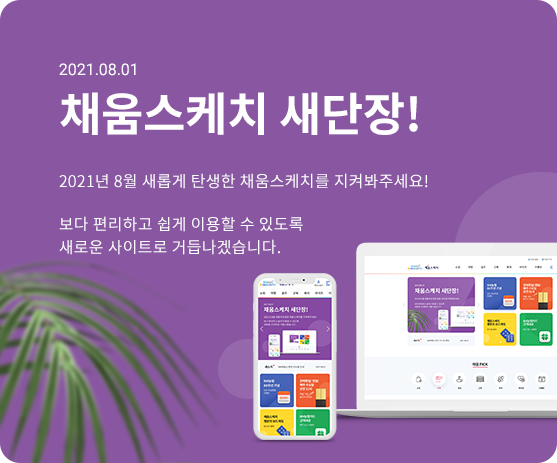
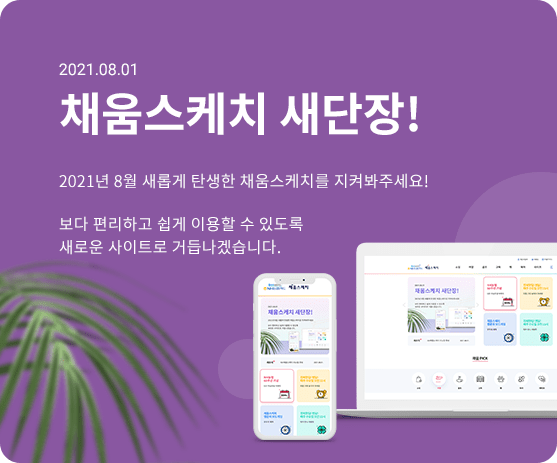
모바일 용 이미지 변경 및 햄버거 메뉴 활성화

Changed region(s): [[0.4578, 0.6048, 0.6104, 0.9676], [0.7325, 0.5745, 1.0, 0.8164], [0.8851, 0.8164, 0.9461, 0.8467]]

diff --git a/css/main-renewal-mb.css b/css/main-renewal-mb.css
@@ -27,7 +27,7 @@
   background-repeat: no-repeat;
   background-size: cover;
   background-position: center;
-  background-image: url(../img/main-sl@3x.png);
+  background-image: url(../img/main-sl-mb@3x.png);
 }
 #contents .content01 .inner .left .owl-carousel .owl-nav {
   padding: 0 20px;
@@ -38,19 +38,20 @@
   display: flex;
   align-items: center;
   justify-content: space-between;
+  opacity: 0.5;
 }
 
 #contents .content01 .inner .left .owl-carousel .owl-nav button.owl-prev {
-  width: 23px;
-  height: 38px;
+  width: 16px;
+  height: 28px;
   background-repeat: no-repeat;
   background-size: 100%;
   background-position: center;
   background-image: url(../img/sl-arrow-1.png);
 }
 #contents .content01 .inner .left .owl-carousel .owl-nav button.owl-next {
-  width: 23px;
-  height: 38px;
+  width: 16px;
+  height: 28px;
   background-repeat: no-repeat;
   background-size: 100%;
   background-position: center;
@@ -61,7 +62,7 @@
 }
 #contents .content01 .inner .left .notice {
   margin: 10px;
-  padding: 0 25px;
+  padding: 0 15px;
   display: flex;
   align-items: center;
   justify-content: space-between;
@@ -69,12 +70,26 @@
   background-color: #f4f8fd;
 }
 #contents .content01 .inner .left .notice h1 {
-  font-size: 15px;
+  font-size: 13px;
   font-weight: 600;
   line-height: 2.23;
   letter-spacing: -1.2px;
   text-align: left;
   color: #1e1e1e;
+  position: relative;
+}
+#contents .content01 .inner .left .notice.active h1::after {
+  content: "";
+  display: inline-block;
+  position: absolute;
+
+  right: -8px;
+  top: 3px;
+
+  width: 6px;
+  height: 6px;
+  background-color: #f44b14;
+  border-radius: 50%;
 }
 #contents .content01 .inner .left .notice .noticeList {
   display: flex;
@@ -101,7 +116,7 @@
 #contents .content01 .inner .right ul li {
   padding: 30px 20px;
   box-sizing: border-box;
-  width: calc(100%/2 - 15px);
+  width: calc(100% / 2 - 15px);
   margin-right: 10px;
   height: 172px;
   margin-bottom: 13px;
@@ -166,17 +181,17 @@
 #contents .content01 .inner .right ul li h1 {
   font-size: 16px;
   font-weight: 600;
-  line-height: 1.13;
-  letter-spacing: normal;
+  line-height: 1.25;
+  letter-spacing: -1.28px;
   text-align: left;
   color: #ffffff;
 }
 
 #contents .content01 .inner .right ul li h3 {
-  margin-top: 12px;
-  font-size: 14px;
+  margin-top: 10px;
+  font-size: 12px;
   font-weight: 500;
-  line-height: 1.25;
+  line-height: 1.36;
   letter-spacing: normal;
   text-align: left;
   color: #ffffff;
@@ -214,14 +229,14 @@
   background-color: #ea5472;
 }
 #contents .content02 ul {
-  margin-top: 40px;
+  padding: 20px 0;
   display: flex;
   justify-content: space-between;
   align-items: center;
   overflow-x: auto;
 }
-#contents .content02 ul li{
-  margin: 0 8px;
+#contents .content02 ul li {
+  margin: 0 5px;
 }
 #contents .content02 ul li a {
   display: flex;
@@ -230,7 +245,7 @@
   flex-direction: column;
 }
 #contents .content02 ul li a .icon {
-  margin-bottom: 10px;
+  margin-bottom: 5px;
   width: 75px;
   height: 75px;
   border-radius: 50%;
@@ -244,7 +259,7 @@
   box-shadow: 0px 18px 49px 0 rgba(126, 144, 167, 0.2);
 }
 #contents .content02 ul li a p {
-  font-size: 16px;
+  font-size: 12px;
   font-weight: 600;
   line-height: 1.69;
   letter-spacing: normal;
@@ -297,7 +312,11 @@
   background-image: url(../img/main-ctg-icon-7-on.png);
 }
 /* content03 */
-#contents .content03 .inner,
+#contents .content03 .inner {
+  margin: 20px auto;
+  width: 100%;
+}
+
 #contents .content04 .inner {
   margin: 40px auto;
   width: 100%;
@@ -336,41 +355,41 @@
 .content04 ul li:nth-of-type(2n) {
   margin-right: 0;
 }
-.content04 ul li.icon::before{
-    content: "";
-    display: inline-block;
-    position: absolute;
-    top: 10px;
-    left: 10px;
-    width: 100px;
-    height: 52px;
-    background-position: center;
-    background-size: contain;
-    background-repeat: no-repeat;
+.content04 ul li.icon::before {
+  content: "";
+  display: inline-block;
+  position: absolute;
+  top: 10px;
+  left: 10px;
+  width: 50px;
+  height: 20px;
+  background-position: center;
+  background-size: contain;
+  background-repeat: no-repeat;
 }
-.content04 ul li.icon.address11:before{
-    background-image: url(../img/logo-01.png);
+.content04 ul li.icon.address11:before {
+  background-image: url(../img/logo-01.png);
 }
-.content04 ul li.icon.expedia:before{
-    background-image: url(../img/logo-02.png);
+.content04 ul li.icon.expedia:before {
+  background-image: url(../img/logo-02.png);
 }
-.content04 ul li.icon.xGolf:before{
-    background-image: url(../img/logo-03.png);
+.content04 ul li.icon.xGolf:before {
+  background-image: url(../img/logo-03.png);
 }
-.content04 ul li.icon.myPet:before{
-    background-image: url(../img/logo-04.png);
+.content04 ul li.icon.myPet:before {
+  background-image: url(../img/logo-04.png);
 }
-.content04 ul li.icon.wemep:before{
-    background-image: url(../img/logo-05.png);
+.content04 ul li.icon.wemep:before {
+  background-image: url(../img/logo-05.png);
 }
-.content04 ul li.icon.touch:before{
-    background-image: url(../img/logo-06.png);
+.content04 ul li.icon.touch:before {
+  background-image: url(../img/logo-06.png);
 }
-.content04 ul li.icon.esofting:before{
-    background-image: url(../img/logo-07.png);
+.content04 ul li.icon.esofting:before {
+  background-image: url(../img/logo-07.png);
 }
-.content04 ul li.icon.hugMom:before{
-    background-image: url(../img/logo-08.png);
+.content04 ul li.icon.hugMom:before {
+  background-image: url(../img/logo-08.png);
 }
 .content04 ul li a {
   display: block;

diff --git a/css/common.css b/css/common.css
@@ -838,11 +838,29 @@ a:focus {
 }
 
 @media screen and (max-width: 768px) {
+  .fixed{
+    position: fixed;
+    top: 0;
+    left: 0;
+    width: 100%;
+    height: 60px;
+    z-index: 999;
+    background-color: #fff;
+  }
+  .fixed + .hd_bottom{
+    margin-top: 60px;
+  }
   html {
     min-width: 100%;
   }
   .layout_wrap {
     width: 100% !important;
+  }
+  .logo .img_box:nth-of-type(1) {
+    width: 84px;
+  }
+  .logo .img_box:nth-of-type(2) {
+    width: 73px;
   }
   .hd_top .layout_wrap {
     display: flex;
@@ -889,15 +907,13 @@ a:focus {
   header .logo {
     display: flex;
   }
-  .hd_bottom {
-    overflow-x: auto;
-  }
   .hd_bottom .layout_wrap {
     flex-direction: column;
     align-items: baseline;
     height: 45px;
     line-height: 45px;
     border-top: 1px solid #dcdcdc;
+    overflow-x: auto;
   }
   #gnb {
     overflow-x: auto;
@@ -912,6 +928,36 @@ a:focus {
     font-weight: 600;
   }
   #gnb > ul > li > div {
+    display: none;
+  }
+  .manu_all_wrap {
+    position: fixed;
+    top: 60px;
+    left: 0;
+    right: 0;
+    bottom: 0;
+    width: 100%;
+    height: auto;
+    z-index: 9;
+    background-color: rgba(0,0,0,0.3);
+}
+  #menuAll{
+    padding: 0 10px;
+    background-color: #fff;
+    background-image: none;
+  }
+  #menuAll .layout_wrap{
+    height: 100%;
+  }
+  #menuAll > ul.main_menu > li{
+    float: none;
+    width: 100%;
+    border-bottom: 1px solid #dcdcdc;
+  }
+  #menuAll > ul.main_menu > li:last-child{
+    border-bottom: none;
+  }
+  #menuAll > ul.main_menu > li > ul{
     display: none;
   }
   #footer .ft_top .inner {
@@ -938,8 +984,10 @@ a:focus {
     font-size: 10px;
     line-height: 1.56;
   }
+  #footer .ft_btm .inner span.address {
+    margin-right: 0;
+  }
   #footer .ft_btm .inner span.address:after {
-    margin-top: -3px;
-    height: 11px;
+    display: none;
   }
 }

diff --git a/index-renewal-mb.html b/index-renewal-mb.html
@@ -57,6 +57,10 @@
           dots: false,
           autoWidth: false,
         });
+
+        $(window).scroll(function(){
+          $('.hd_top').addClass('fixed');
+        });
       });
     </script>
 
@@ -890,7 +894,7 @@
                     </div>
                   </div>
                 </div>
-                <div class="notice">
+                <div class="notice active">
                   <h1>새소식</h1>
                   <dl class="noticeList">
                     <dt>NH채움스케치 리뉴얼 안내</dt>
@@ -993,7 +997,7 @@
           <div class="content content03">
             <div class="inner">
               <a href="#"
-                ><img src="img/main-deal-banner@3x.png" alt="main-deal-banner"
+                ><img src="img/m-main-deal-banner@3x.png" alt="main-deal-banner"
               /></a>
             </div>
           </div>
@@ -1123,7 +1127,6 @@
               </address>
             </span>
             <span>사업자 등록번호 : 220-81-78061</span>
-            <br />
             <span>카드 문의 <strong>1644-4000</strong>,</span>
             <span>채움스케치 문의 <strong>1688-6182</strong></span>
             <p>Copyright ⓒ 2021 esofting ALL RIGHT RESERVED.</p>

diff --git a/css/main-renewal-pc.css b/css/main-renewal-pc.css
@@ -76,6 +76,20 @@
   letter-spacing: -0.8px;
   text-align: left;
   color: #1e1e1e;
+  position: relative;
+}
+#contents .content01 .inner .left .notice.active h1::after{
+  content: "";
+  display: inline-block;
+  position: absolute;
+ 
+  right: -15px;
+  top: 20px;
+
+  width: 10px;
+  height: 10px;
+  background-color: #f44b14;
+  border-radius: 50%;
 }
 #contents .content01 .inner .left .notice .noticeList {
   display: flex;

diff --git a/index-renewal-pc.html b/index-renewal-pc.html
@@ -895,7 +895,7 @@
                     </div>
                   </div>
                 </div>
-                <div class="notice">
+                <div class="notice active">
                   <h1>새소식</h1>
                   <dl class="noticeList">
                     <dt>NH채움스케치 리뉴얼 안내</dt>
